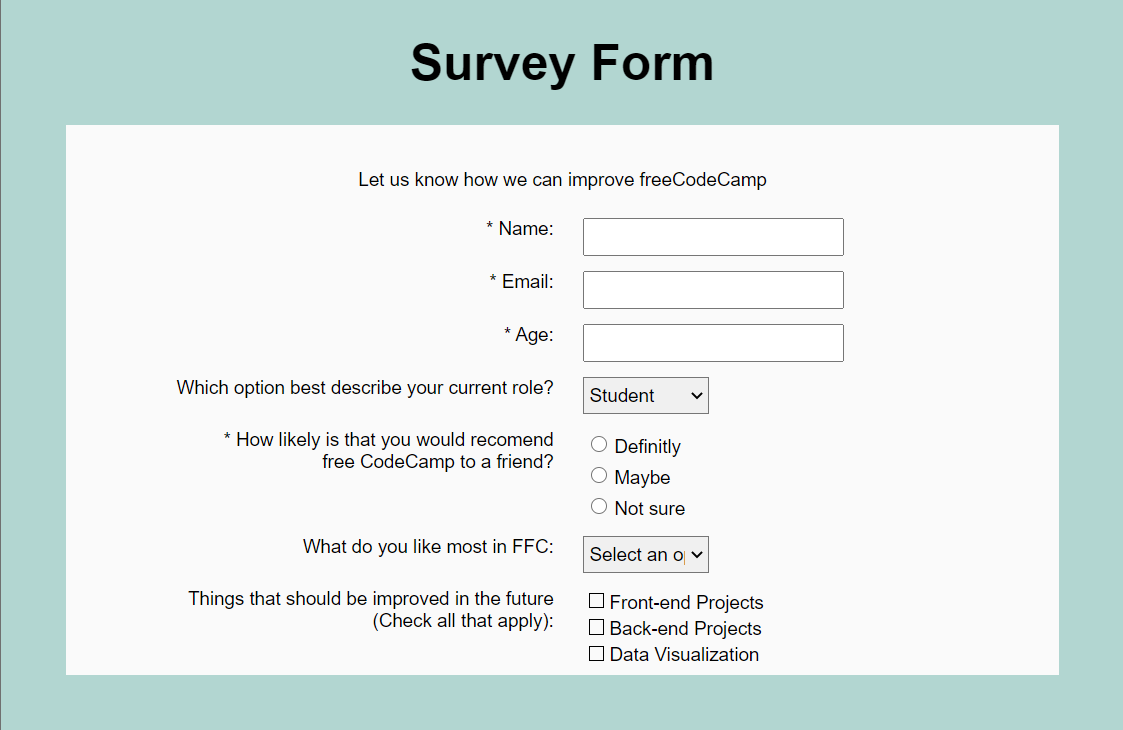
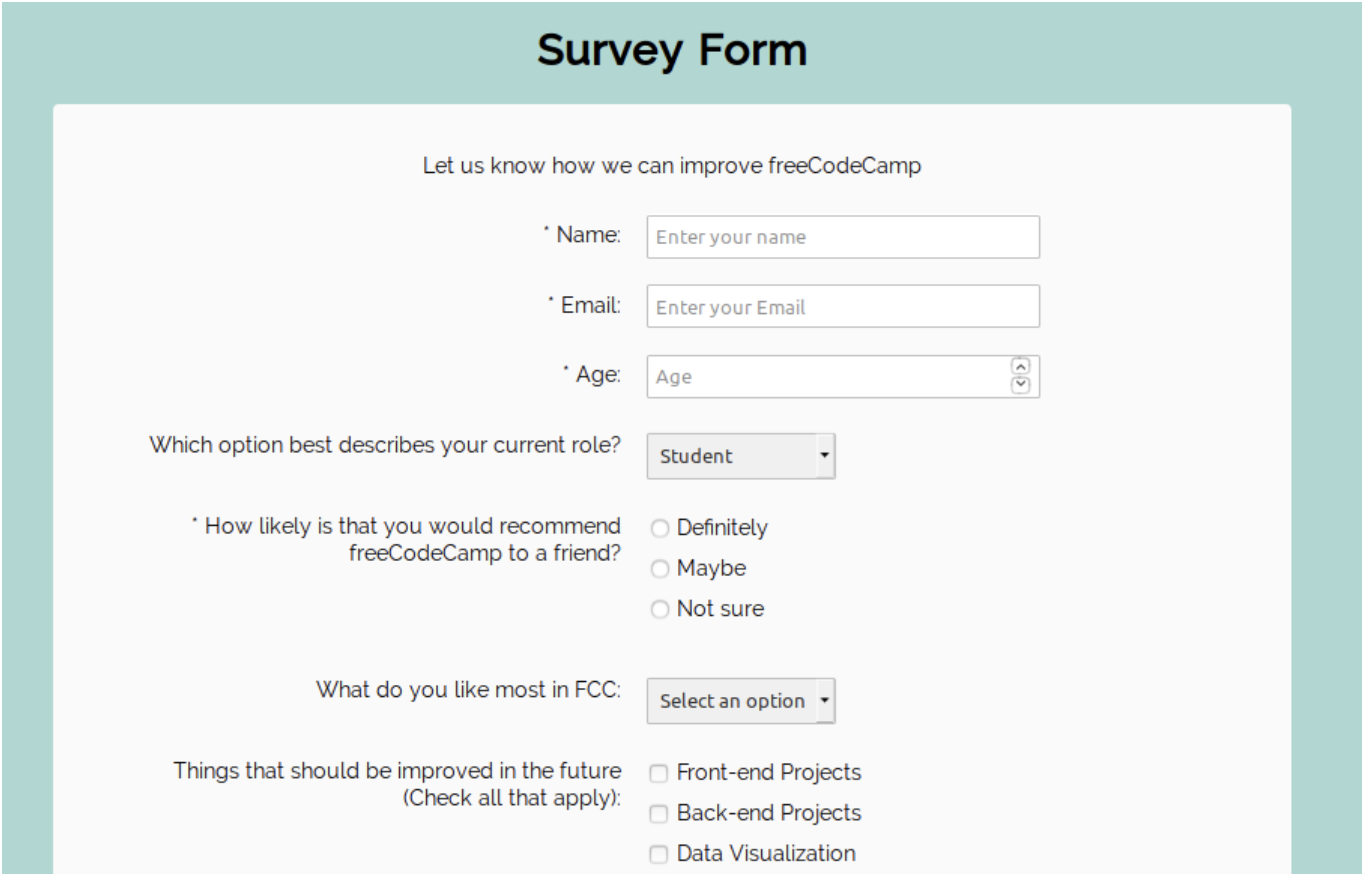
Überarbeitung von Kapitel 1. Einführung. SurveyForm Wireframe wird jetzt auch gerendert dargestellt

Changed region(s): [[0.0312, 0.0301, 0.9662, 1.0], [0.0935, 0.2411, 0.7792, 0.7233], [0.0, 0.0, 0.0312, 0.0301]]

diff --git a/Content/Einfuehrung/Beispiel/surveyForm.css b/Content/Einfuehrung/Beispiel/surveyForm.css
@@ -1,69 +1,69 @@
-    body {
-        background-color: #b2d6d1;
-    }
+body {
+    background-color: #b2d6d1;
+}
 
-    * {
-        font-family: 'Open Sans', sans-serif;
-        font-size: 15px;
-    }
+* {
+    font-family: 'Open Sans', sans-serif;
+    font-size: 15px;
+}
 
-    .grayBox {
-        background-color: rgb(250,250,250);
-        margin: auto; 
-        width: 90%;
-    }
+.grayBox {
+    background-color: rgb(250,250,250);
+    margin: auto; 
+    width: 90%;
+}
 
-    h1 {
-        text-align: center;
-        font-size: 40px;
-        font-family: 'Open Sans', sans-serif;
-    }
-
-
-    table {
-        border: 0px solid red;
-        margin: auto;
-        width: 90%;
-    }
-
-    td {
-        border: 0px solid red;
-        padding: 5px;
-        vertical-align: top;
-    }
+h1 {
+    text-align: center;
+    font-size: 40px;
+    font-family: 'Open Sans', sans-serif;
+}
 
 
-    td.left {
-        width: 50%;
-        text-align: right;
-    }
-    td.right {
-        width: 50%;
-        text-align: right;
-    }
-    td.middle {
-        width: 1%;
-    }
+table {
+    border: 0px solid red;
+    margin: auto;
+    width: 90%;
+}
 
-    input.text {
-        height: 25px;
-        width: 60%;
-    }
-    input.radio {
-        margin: 6px;
-    }
+td {
+    border: 0px solid red;
+    padding: 5px;
+    vertical-align: top;
+}
 
-    select {
-        background-color: rgb(240,240,240) ;
-        height: 30px;
-        width: 30%;
-    }
 
-    input.radio2[type=radio] {
-        margin: 6px;
-        padding: 0.3em;
-        -webkit-appearance: none;
-        outline: 0.1em solid black;
-        outline-offset: 0.1em;
-        vertical-align: bottom;
-    }
+td.left {
+    width: 50%;
+    text-align: right;
+}
+td.right {
+    width: 50%;
+    text-align: right;
+}
+td.middle {
+    width: 1%;
+}
+
+input.text {
+    height: 25px;
+    width: 60%;
+}
+input.radio {
+    margin: 6px;
+}
+
+select {
+    background-color: rgb(240,240,240) ;
+    height: 30px;
+    width: 30%;
+}
+
+input.radio2[type=radio] {
+    margin: 6px;
+    padding: 0.3em;
+    -webkit-appearance: none;
+    outline: 0.1em solid black;
+    outline-offset: 0.1em;
+    vertical-align: bottom;
+}

diff --git a/Content/Einfuehrung/einfuehrung.html b/Content/Einfuehrung/einfuehrung.html
@@ -51,18 +51,22 @@
     </p>
     <p class="text-font">Das genauere Aussehen dieser <i>HTML</i> elemente wird durch sogenannte <i> CSS Stylesheets</i> definiert.
     </p>
-    <p class="text-font">Ein Überblick des Zusammenspiels dieser beider Technologien ist anhand des nachfolgenden Beispiels zu sehen.
+    <p class="text-font">Ein Überblick des Zusammenspiels dieser beider Technologien Zeigt das Beispiel.
+        Das Wireframe kann durch den folgenden HTML5 code in <i>surveyForm.html</i> erstellt werden.
+        Vergleichen sie das Bild mit dem tatsächlich gerenderten Form. Das Nachprogrammieren von Wireframes ist eine Kunst für sich.
     </p>
 
     <div style="width: fit-content; margin: auto;">
         <img class="illustration" src="Content/Einfuehrung/Beispiel/surveyForm.png" alt="SurveyForm">
-        <p class="reference">Screenshot, SurveyForm</p> 
+        <p class="reference">Screenshot, Original SurveyForm</p> 
     </div>
     
-    <codebox-component title="surveyForm.html" src="Content/Einfuehrung/Beispiel/surveyForm.html"></codebox-component>
-    <p class="text-font">Unser Wireframe kann durch den folgenden HTML5 code in <i>surveyForm.html</i> erstellt werden.
-        Dieser enthält allerdings bisher nur das Defaultmäßige Aussehen der eingebundenen HTML Elemente.
+    
+    <p class="text-font">Und hier die Nachprogrammierte Variante
     </p>
+    <htmlviewer-component src="Content/Einfuehrung/Beispiel/surveyForm.html"></htmlviewer-component>
+
+    <codebox-component title="surveyForm.html" src="Content/Einfuehrung/Beispiel/surveyForm.html"></codebox-component>
 
     <codebox-component><!--
     <link rel="stylesheet" href="./surveyForm.css">
